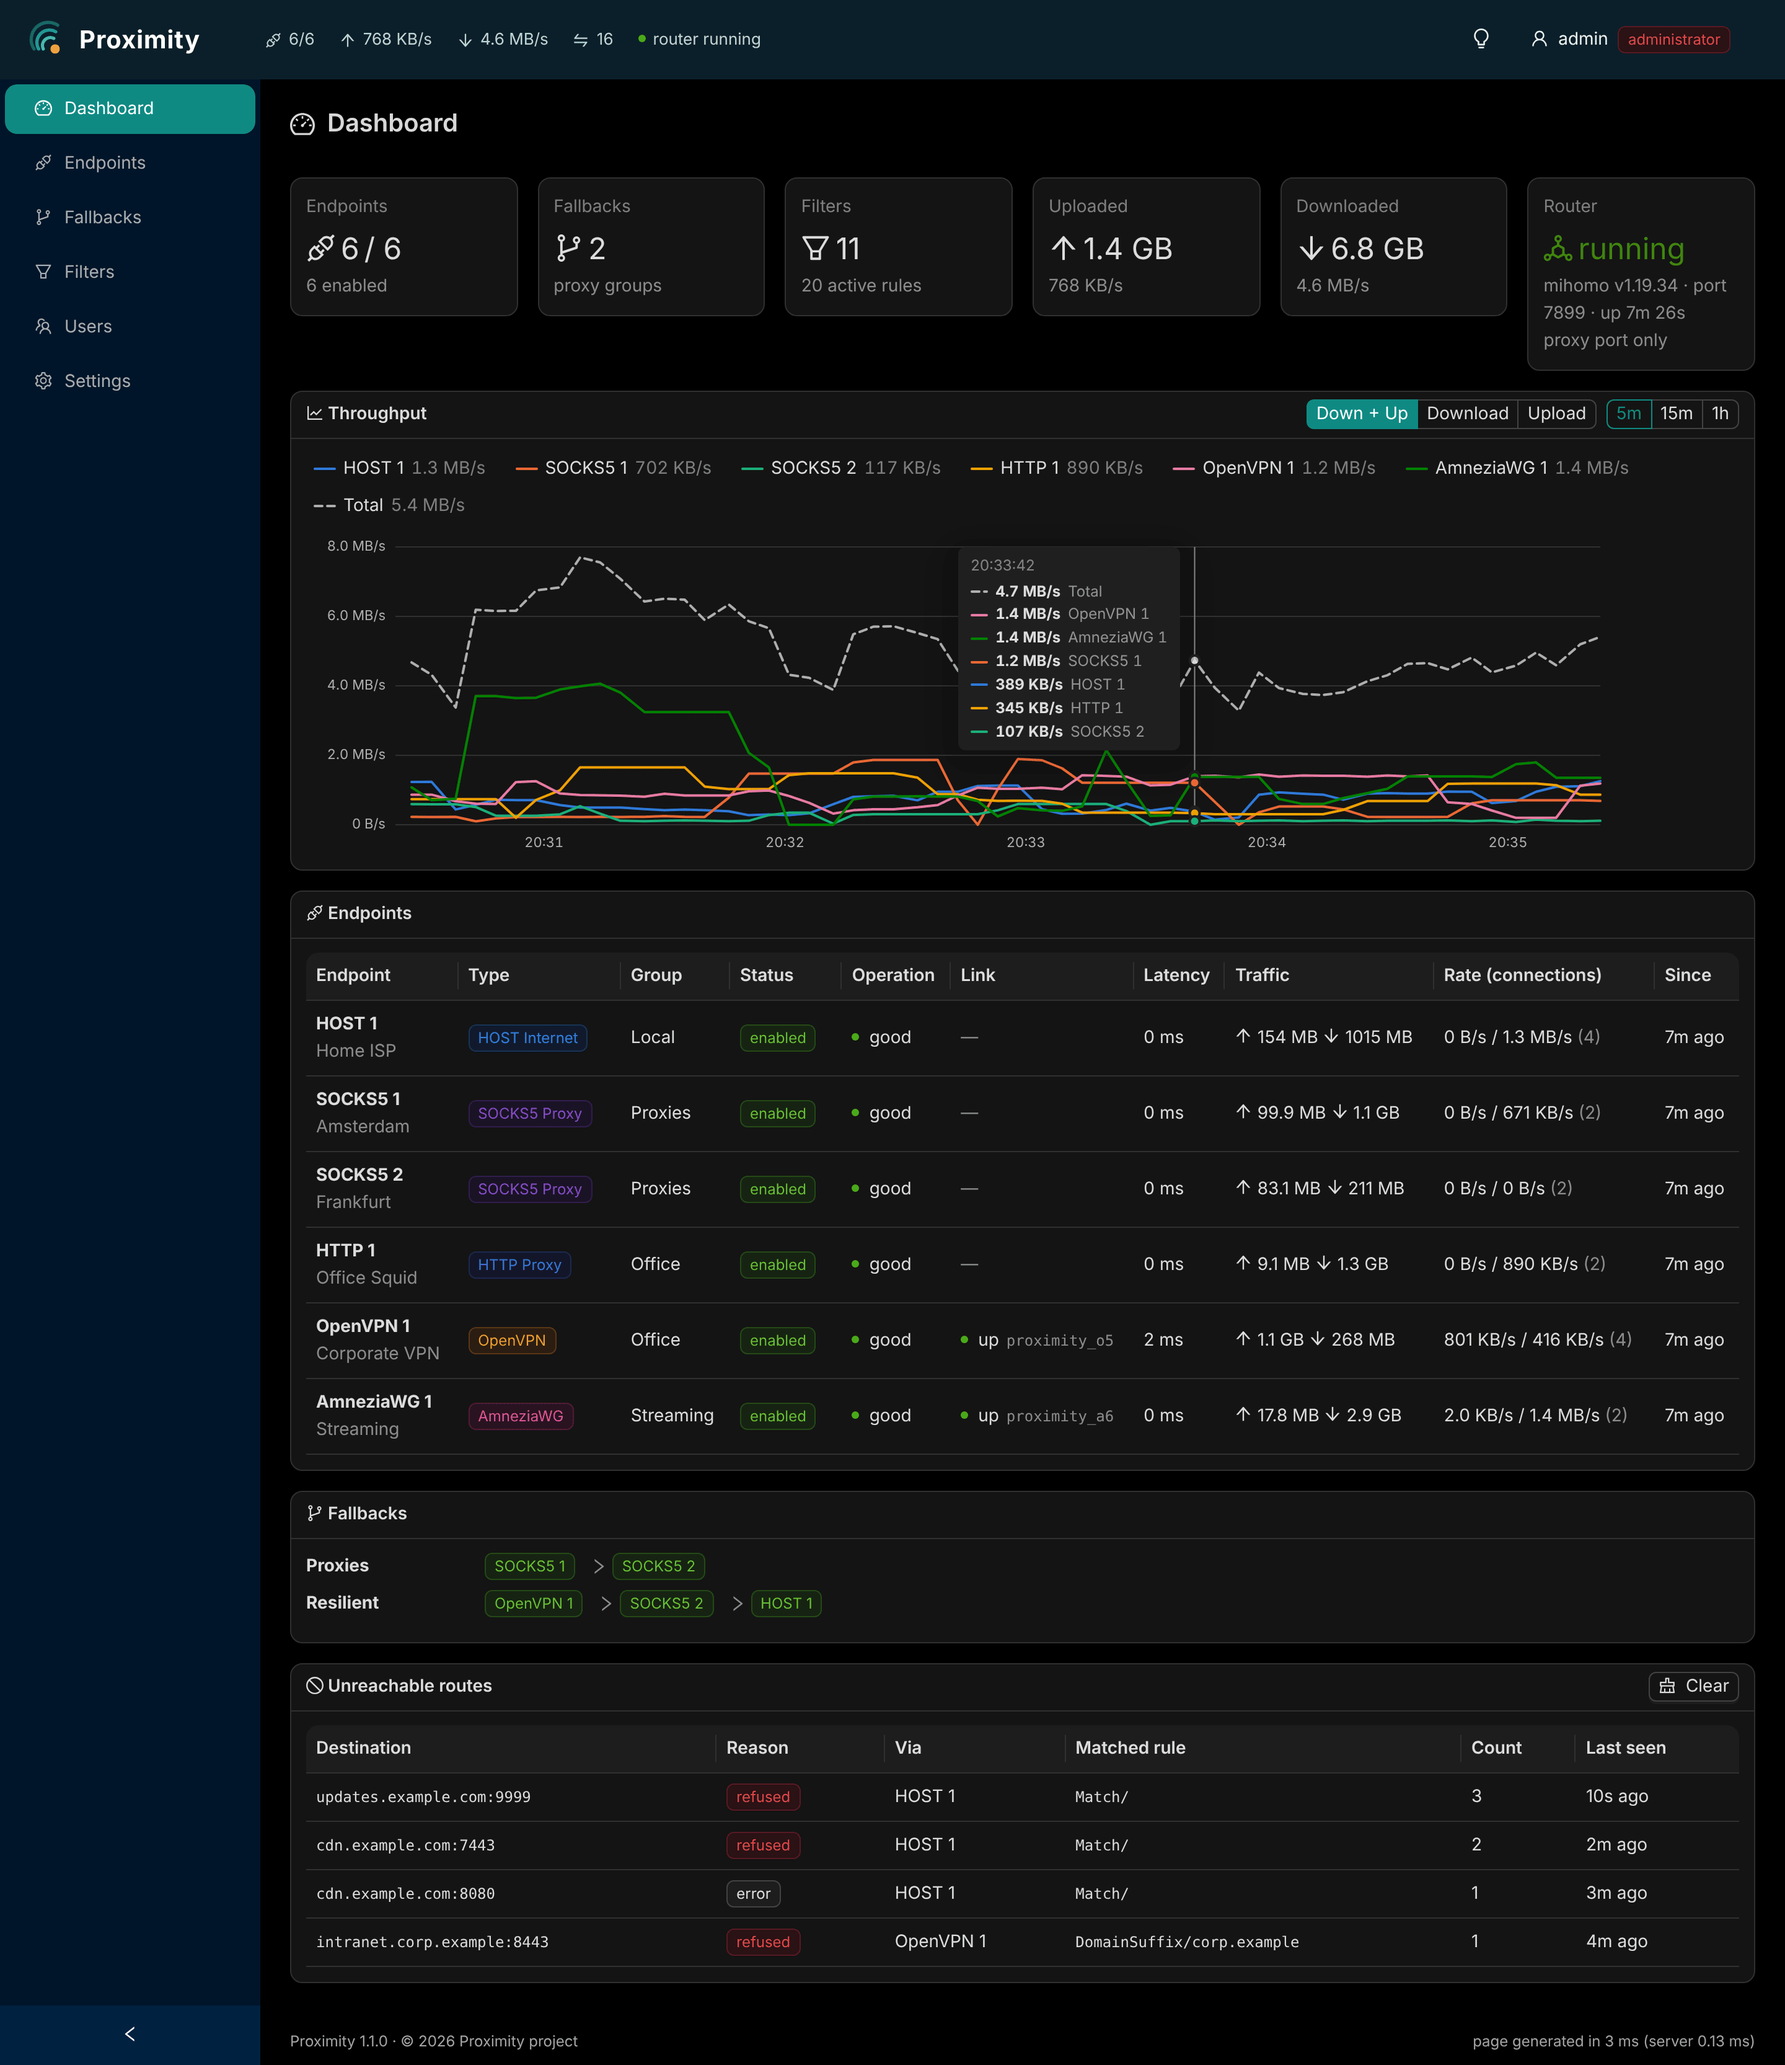
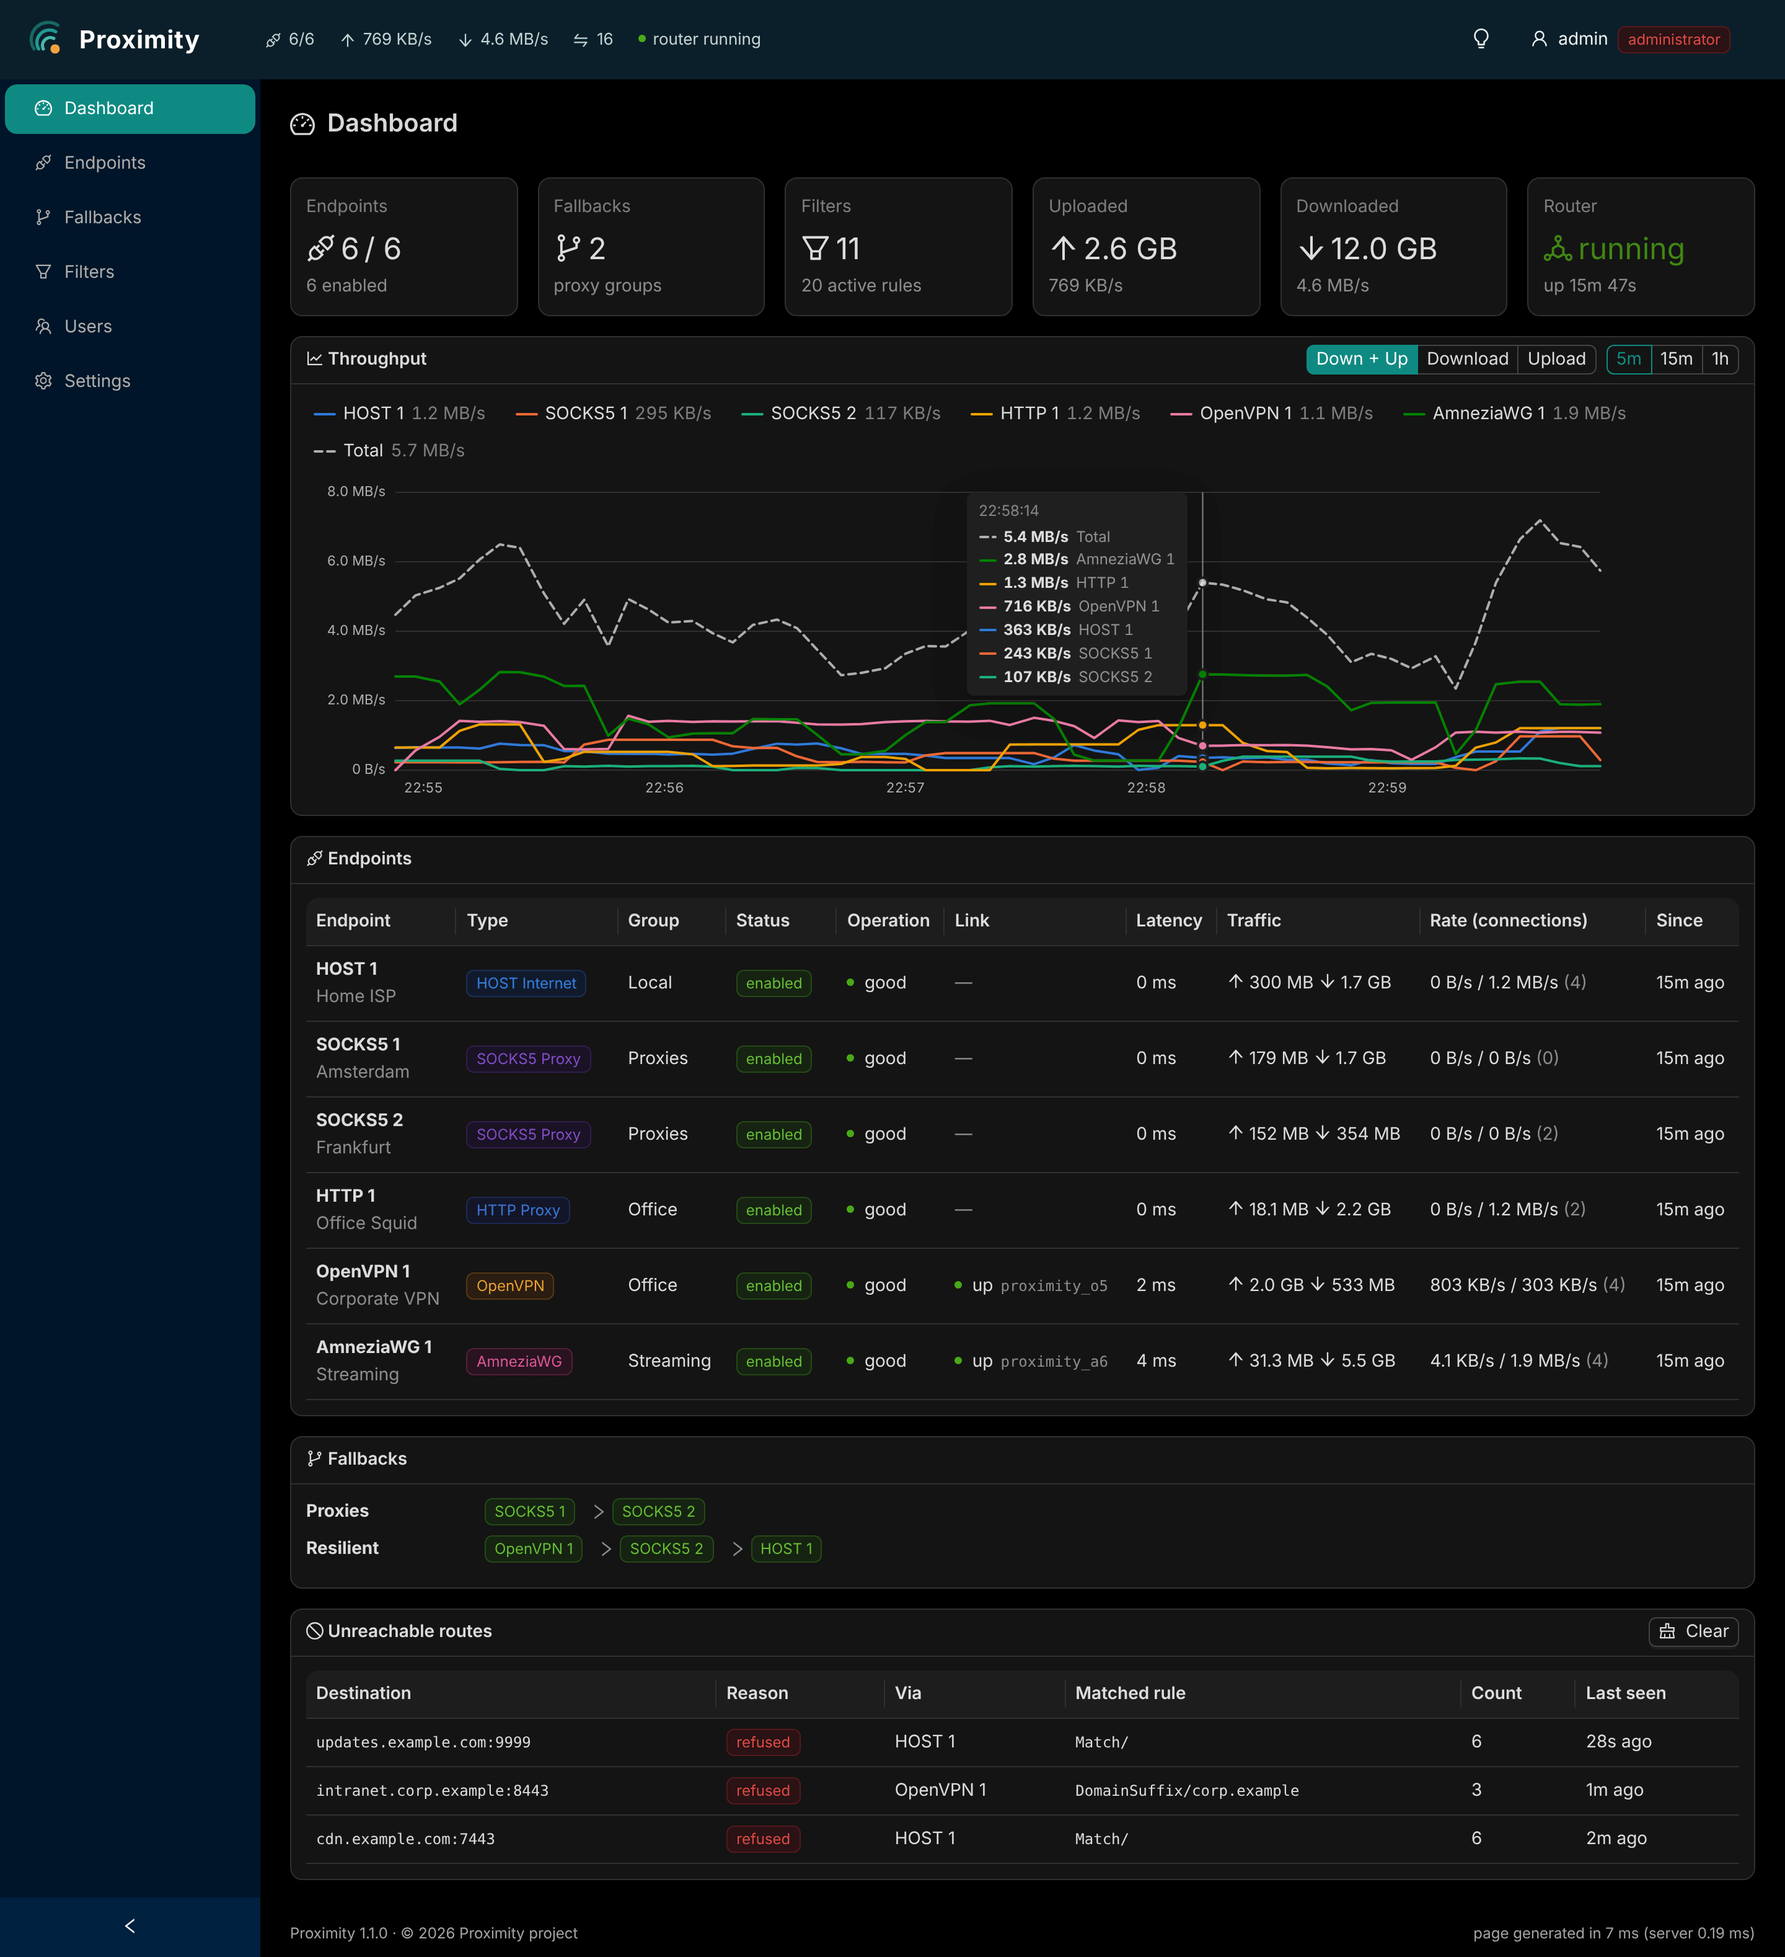
Fixed initialization of the AmneziaWG driver. Aligned cards in Dashboard view.

diff --git a/web/src/views/Dashboard.vue b/web/src/views/Dashboard.vue
@@ -11,36 +11,35 @@
       </a-alert>
       <a-row :gutter="[16, 16]">
         <a-col :xs="12" :md="8" :xl="4">
-          <a-card size="small"><a-statistic title="Endpoints" :value="overview.counts.endpoints_up" :suffix="`/ ${overview.counts.endpoints}`">
+          <a-card size="small" class="stat-card"><a-statistic title="Endpoints" :value="overview.counts.endpoints_up" :suffix="`/ ${overview.counts.endpoints}`">
             <template #prefix><ApiOutlined /></template></a-statistic>
             <div class="muted">{{ overview.counts.endpoints_enabled }} enabled</div></a-card>
         </a-col>
         <a-col :xs="12" :md="8" :xl="4">
-          <a-card size="small"><a-statistic title="Fallbacks" :value="overview.counts.fallbacks">
+          <a-card size="small" class="stat-card"><a-statistic title="Fallbacks" :value="overview.counts.fallbacks">
             <template #prefix><BranchesOutlined /></template></a-statistic>
             <div class="muted">proxy groups</div></a-card>
         </a-col>
         <a-col :xs="12" :md="8" :xl="4">
-          <a-card size="small"><a-statistic title="Filters" :value="overview.counts.filters">
+          <a-card size="small" class="stat-card"><a-statistic title="Filters" :value="overview.counts.filters">
             <template #prefix><FilterOutlined /></template></a-statistic>
             <div class="muted">{{ overview.counts.rules }} active rules</div></a-card>
         </a-col>
         <a-col :xs="12" :md="8" :xl="4">
-          <a-card size="small"><a-statistic title="Uploaded" :value="bytes(overview.total.upload)">
+          <a-card size="small" class="stat-card"><a-statistic title="Uploaded" :value="bytes(overview.total.upload)">
             <template #prefix><ArrowUpOutlined /></template></a-statistic>
             <div class="muted">{{ rate(overview.total.upload_rate) }}</div></a-card>
         </a-col>
         <a-col :xs="12" :md="8" :xl="4">
-          <a-card size="small"><a-statistic title="Downloaded" :value="bytes(overview.total.download)">
+          <a-card size="small" class="stat-card"><a-statistic title="Downloaded" :value="bytes(overview.total.download)">
             <template #prefix><ArrowDownOutlined /></template></a-statistic>
             <div class="muted">{{ rate(overview.total.download_rate) }}</div></a-card>
         </a-col>
         <a-col :xs="12" :md="8" :xl="4">
-          <a-card size="small"><a-statistic title="Router" :value="overview.router.running ? 'running' : 'stopped'"
+          <a-card size="small" class="stat-card"><a-statistic title="Router" :value="overview.router.running ? 'running' : 'stopped'"
             :value-style="{ color: overview.router.running ? '#3f8600' : '#cf1322' }">
             <template #prefix><DeploymentUnitOutlined /></template></a-statistic>
-            <div class="muted">mihomo {{ overview.router.version }} · port {{ overview.proxy_port }} · up {{ duration(overview.uptime) }}</div>
-            <div class="muted">{{ overview.capture ? 'transparent: all host traffic' : 'proxy port only' }}</div></a-card>
+            <div class="muted">up {{ duration(overview.uptime) }}</div></a-card>
         </a-col>
       </a-row>
       <TrafficChart :overview="overview" />

diff --git a/web/src/style.css b/web/src/style.css
@@ -10,5 +10,6 @@ textarea, textarea.ant-input { font-family: var(--font-mono); }
 .nowrap { white-space: nowrap; }
 .pane-title { display: flex; align-items: center; gap: 10px; margin: 0 0 16px; font-size: 20px; font-weight: 600; }
 .stack { display: flex; flex-direction: column; gap: 16px; }
+.stat-card { height: 100%; }
 .chain { display: flex; align-items: center; flex-wrap: wrap; gap: 4px; }
 .log-view { max-height: 60vh; overflow: auto; white-space: pre-wrap; word-break: break-all; margin: 0; }

diff --git a/internal/link/drivers.go b/internal/link/drivers.go
@@ -217,13 +217,15 @@ func (driver *amneziaDriver) start(ctx context.Context) error {
 }
 
 func (driver *amneziaDriver) ready(socket string) bool {
-	// NOTE: Until amneziawg-go creates UAPI socket awg falls back to kernel module and fails.
+	// NOTE: Until amneziawg-go listens on UAPI socket awg falls back to kernel module and fails.
 	if linkState(driver.device) == "absent" {
 		return false
-	} else if _, err := os.Stat(socket); err != nil {
+	} else if connection, err := net.DialTimeout("unix", socket, time.Second); err != nil {
 		return false
+	} else {
+		connection.Close()
+		return true
 	}
-	return true
 }
 
 func (driver *amneziaDriver) install(ctx context.Context, path string) error {

diff --git a/internal/link/link_test.go b/internal/link/link_test.go
@@ -124,6 +124,11 @@ func TestAmneziaDriver_Ready(t *testing.T) {
 		driver := &amneziaDriver{device: "lo"}
 		require.False(t, driver.ready(socket))
 		require.NoError(t, os.WriteFile(socket, nil, 0o600))
+		require.False(t, driver.ready(socket))
+		require.NoError(t, os.Remove(socket))
+		listener, err := net.Listen("unix", socket)
+		require.NoError(t, err)
+		defer listener.Close()
 		require.True(t, driver.ready(socket))
 	}
 }

diff --git a/docs/architecture.md b/docs/architecture.md
@@ -228,9 +228,9 @@ endpoint on its **Monitoring** tab.
   `S1`, `S2`, `H1`–`H4`); `vpn://` keys exported by the Amnezia app are converted to a
   normal `.conf`; the UI can also decode a QR code from an image (in the browser, with jsQR).
 - `amneziawg-go proximity_a<slot>` is started (log level verbose, its output goes to the
-  connection log). Proximity waits until both the interface and the control socket
-  `/var/run/amneziawg/proximity_a<slot>.sock` exist (otherwise `awg` would try the
-  kernel module and fail), then applies the configuration with `awg setconf`, addresses and MTU
+  connection log). Proximity waits until the interface exists and the control socket
+  `/var/run/amneziawg/proximity_a<slot>.sock` accepts connections (otherwise `awg`
+  would remove the socket, try the kernel module and fail), then applies the configuration with `awg setconf`, addresses and MTU
   (default 1280) are set, and the default route goes into the tunnel's table.
 - The connection log ends with the output of `awg show` for the device.
 

diff --git a/docs/user-guide.md b/docs/user-guide.md
@@ -39,8 +39,8 @@ All lists refresh themselves; the **Refresh** buttons force an immediate reload.
 
 **Cards** at the top: endpoints (good / total, enabled), fallbacks, filters (and the number
 of active router rules), total uploaded and downloaded bytes with the current rate, and
-the router: mihomo version, proxy port, uptime and mode (`transparent: all host traffic`
-or `proxy port only`).
+the router state with its uptime. The capture mode is shown in the header
+(`transparent`).
 
 **Throughput** — an interactive chart of the upload and download rate of every endpoint
 that collects statistics, plus a dashed **Total** line.
